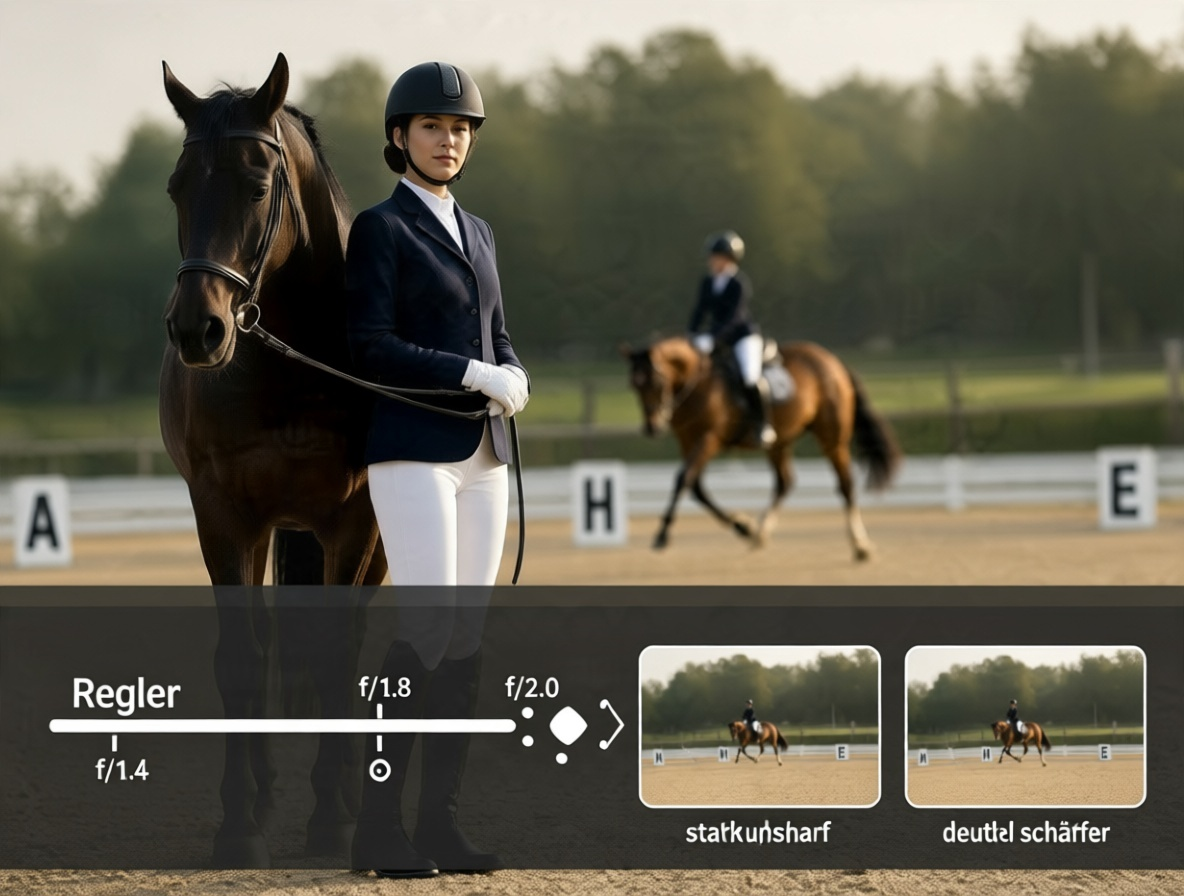
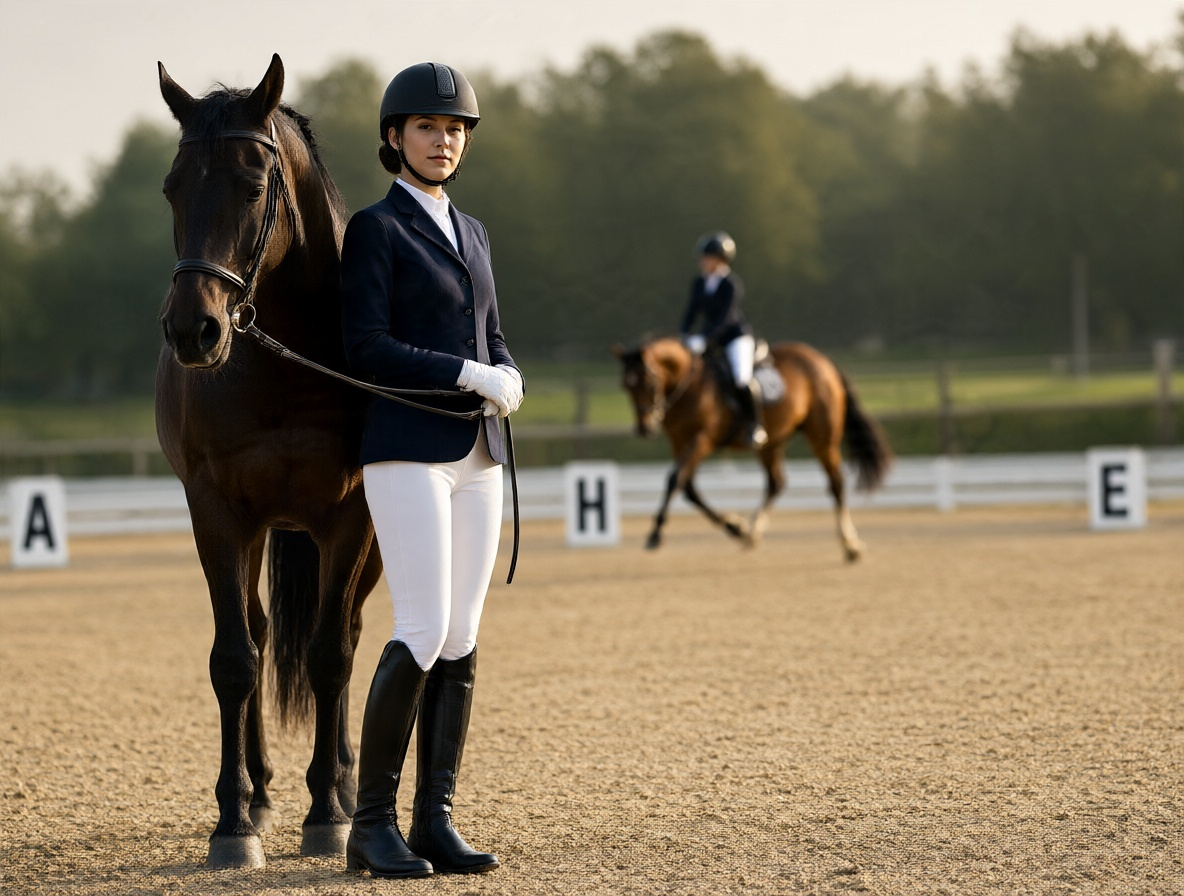
reitplatz: neues Foto (saubere Aufnahme ohne Overlay, Reiterin bei ~30% links) + Vordergrund-Maske angepasst

diff --git a/css/reitplatz.css b/css/reitplatz.css
@@ -11,5 +11,5 @@
   .photo { position:relative; }
   .photo .ph { width:100%; height:auto; display:block; border:1px solid var(--line); border-radius:10px; }
   .photo .phblur { position:absolute; inset:0; width:100%; height:100%;
-    -webkit-mask-image: radial-gradient(ellipse 44% 56% at 50% 42%, transparent 58%, #000 86%);
-    mask-image: radial-gradient(ellipse 44% 56% at 50% 42%, transparent 58%, #000 86%); }
+    -webkit-mask-image: radial-gradient(ellipse 55% 62% at 42% 46%, transparent 58%, #000 86%);
+    mask-image: radial-gradient(ellipse 55% 62% at 42% 46%, transparent 58%, #000 86%); }
